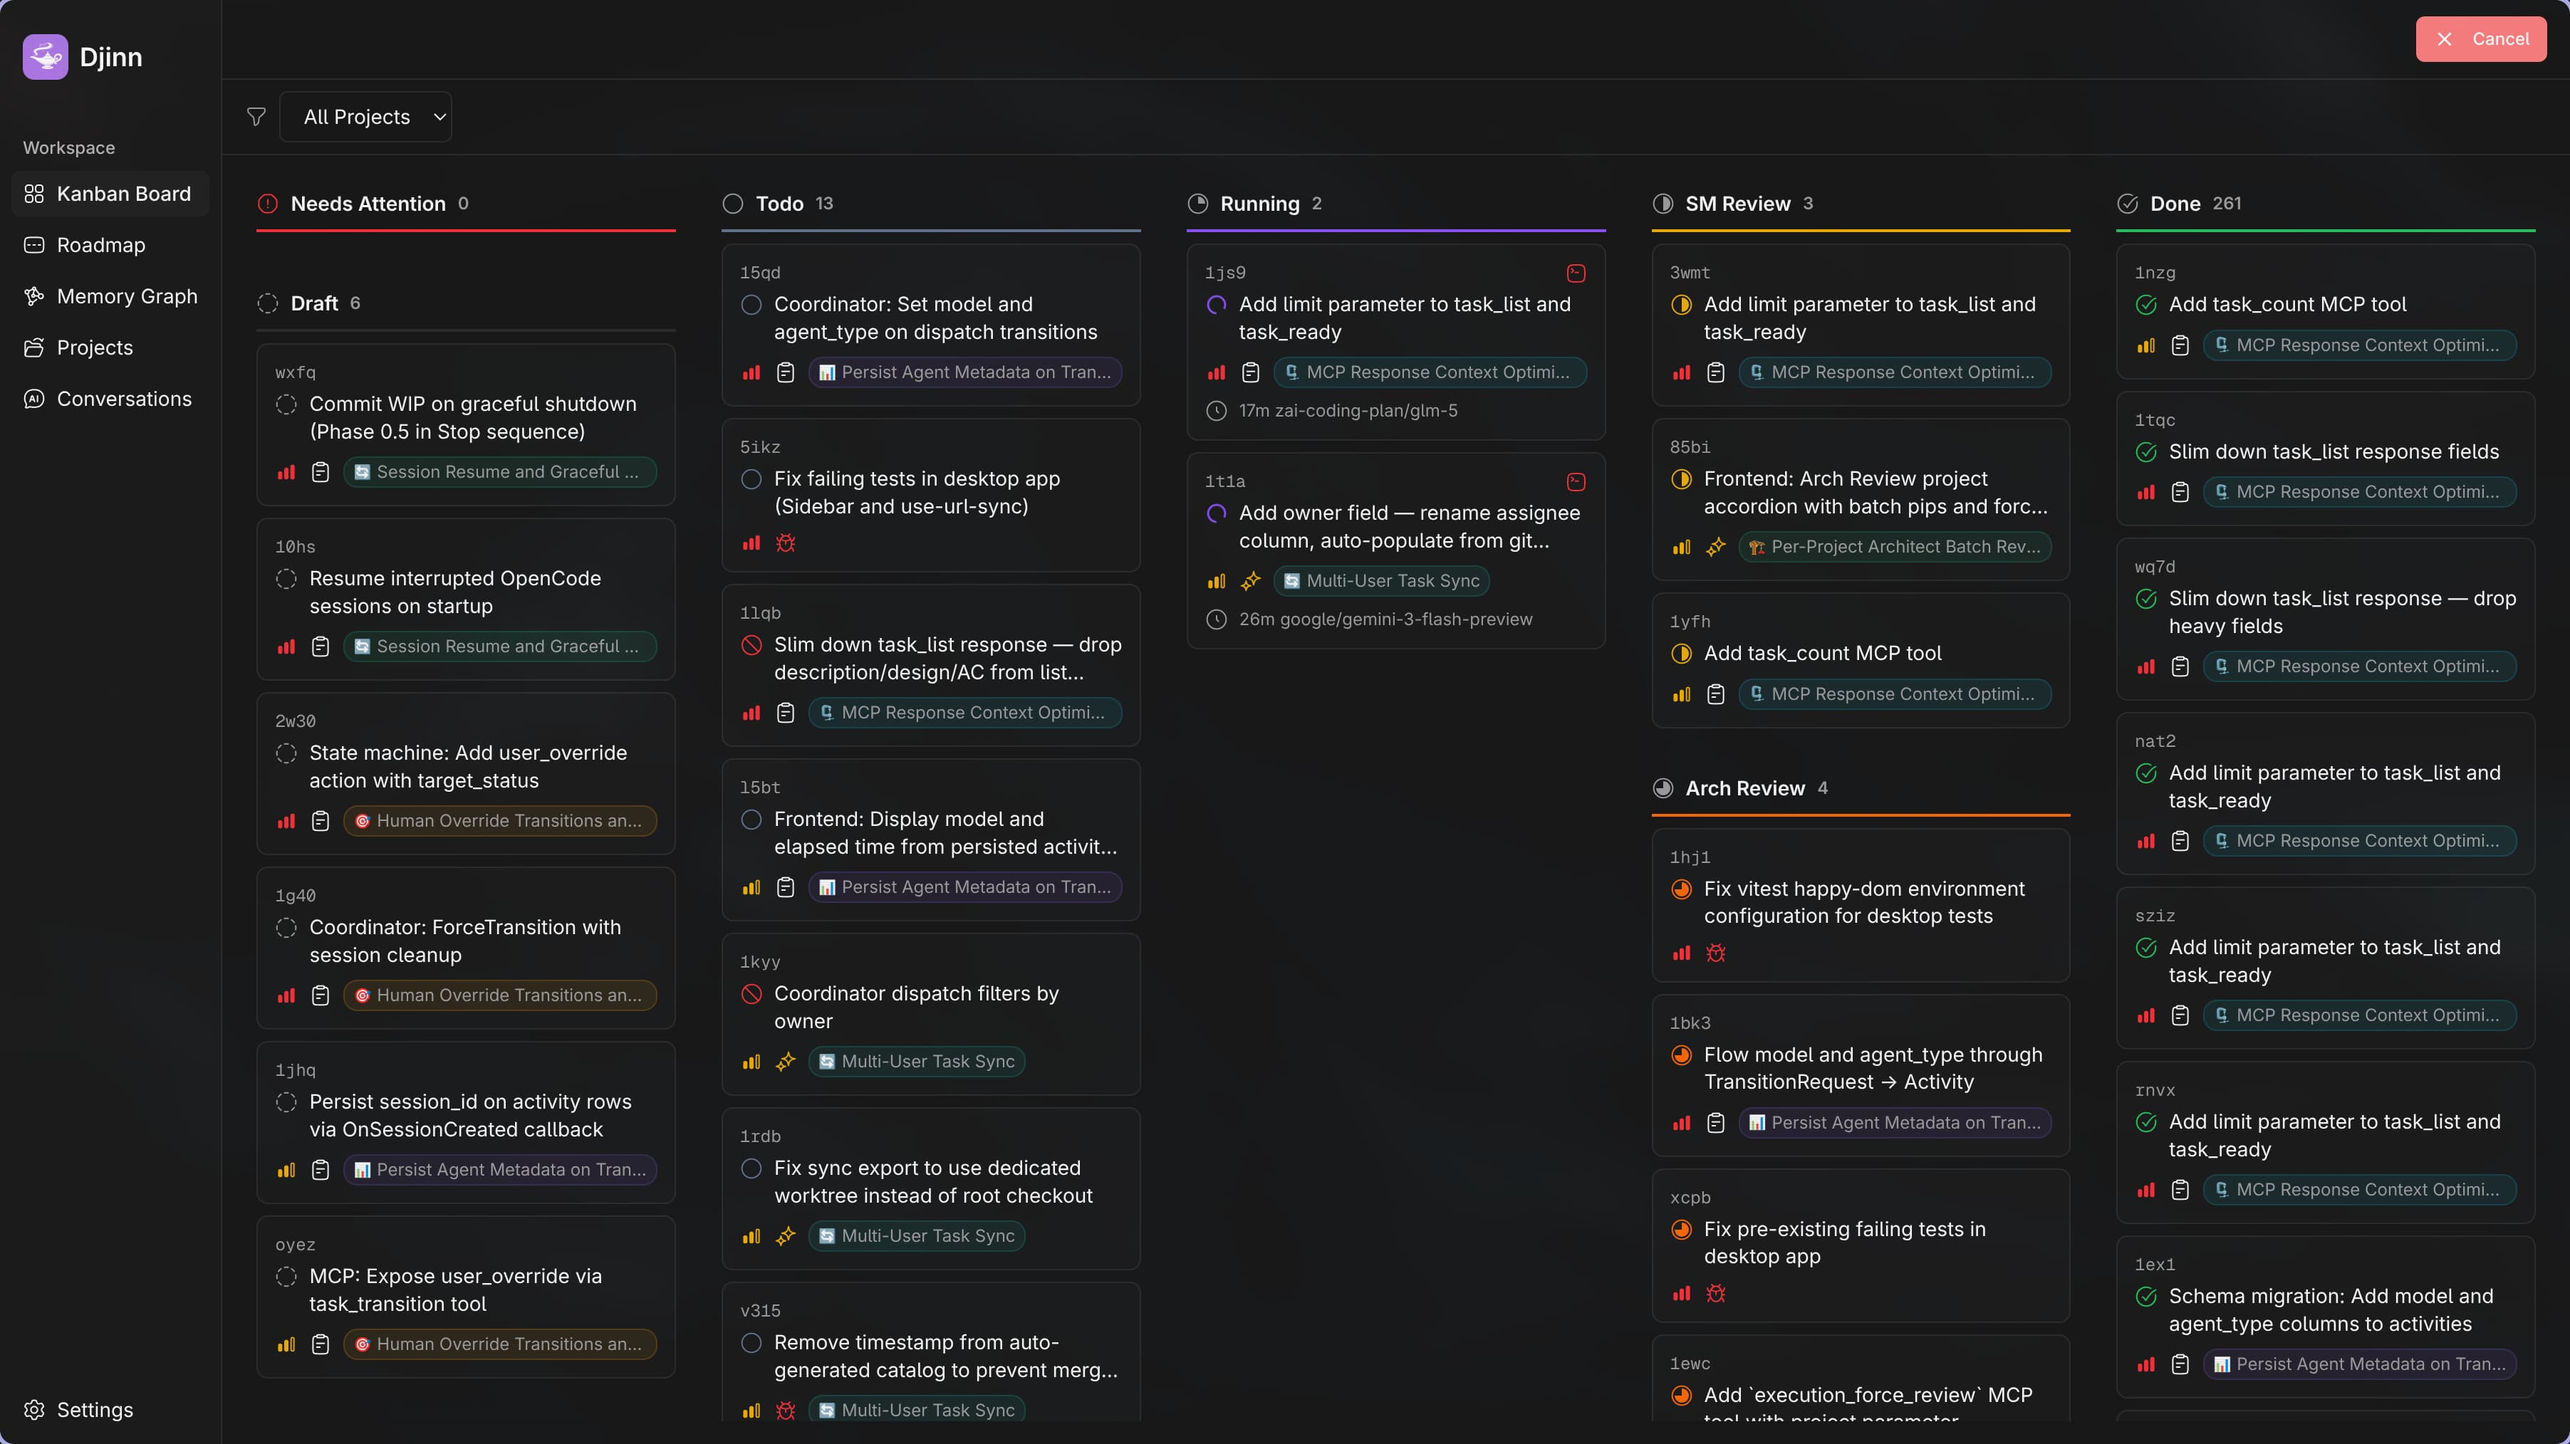
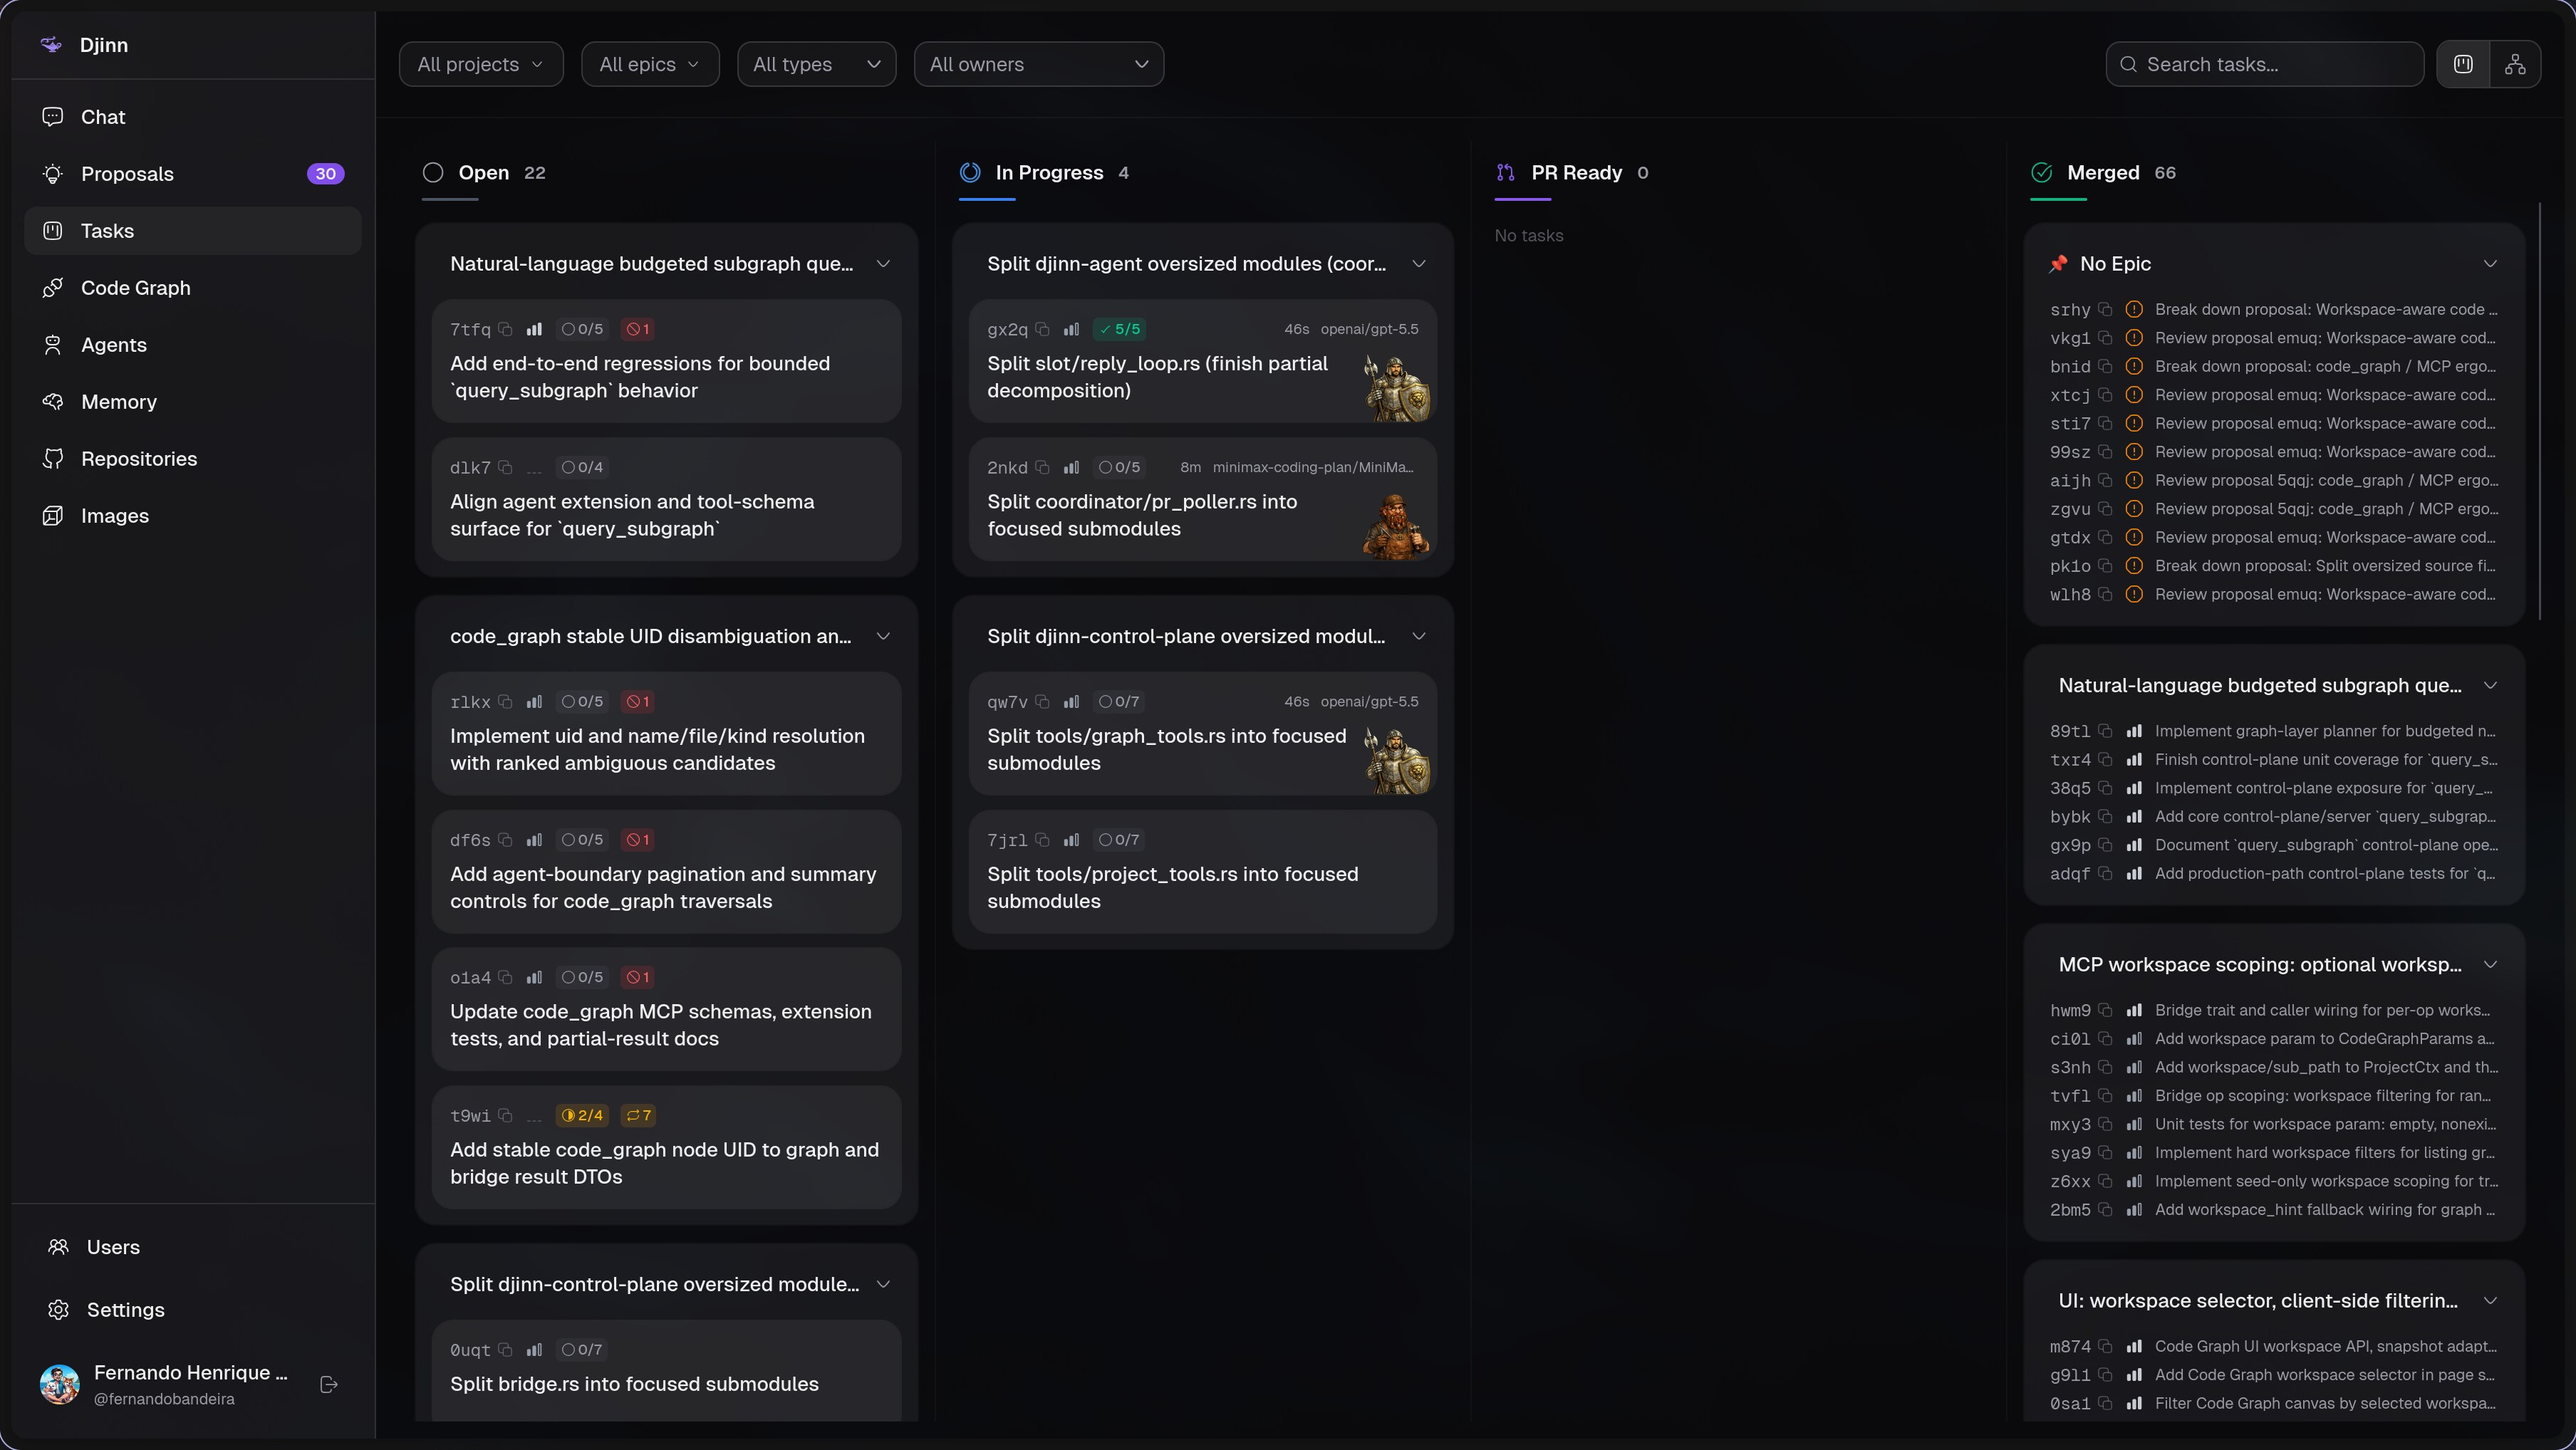
docs(website): refresh screenshots — proposals hero, code graph, roadmap, kanban
Replace the three aging screenshots with four fresh captures:
- proposals view is now the website hero
- code graph replaces the memory graph in the knowledge section
- new roadmap shot replaces epics.jpg
- new kanban shot keeps its slot as the OG/social image and README lead

diff --git a/website/app/page.tsx b/website/app/page.tsx
@@ -165,11 +165,11 @@ export default function Home() {
               <span className="dot bg-accent-coral/70" />
               <span className="dot bg-status-warn/70" />
               <span className="dot bg-status-pass/70" />
-              <span className="ml-3">djinn — board · 6 agents running</span>
+              <span className="ml-3">djinn — proposals · specs in review, building, and done</span>
             </div>
             <LightboxImage
-              src="/kanban.jpg"
-              alt="Djinn — parallel AI agents building approved work across multiple projects"
+              src="/proposals.jpg"
+              alt="Djinn — proposals moving from draft through review and sign-off to build"
               className="w-full"
             />
           </div>
@@ -233,8 +233,8 @@ export default function Home() {
             <div className="md:col-span-3 window">
               <div className="window-bar">fig. 01 — roadmap · epics generated from proposal #0001</div>
               <LightboxImage
-                src="/epics.jpg"
-                alt="Djinn Roadmap — epics and tasks generated from an approved proposal"
+                src="/roadmap.jpg"
+                alt="Djinn Roadmap — epics and tasks generated from an approved proposal, with dependencies and blockers"
                 className="w-full"
               />
             </div>
@@ -294,10 +294,10 @@ export default function Home() {
               </p>
             </div>
             <div className="md:col-span-3 order-1 md:order-2 window">
-              <div className="window-bar">fig. 02 — memory graph · decisions, patterns, pitfalls</div>
+              <div className="window-bar">fig. 02 — code graph · symbols, references, dependencies</div>
               <LightboxImage
-                src="/memory.jpg"
-                alt="Djinn Memory Graph — knowledge base visualization with connected decisions, patterns, and architecture notes"
+                src="/code-graph.jpg"
+                alt="Djinn Code Graph — per-project symbol graph powering impact analysis and code intelligence"
                 className="w-full"
               />
             </div>

diff --git a/README.md b/README.md
@@ -33,14 +33,20 @@ The `djinn-server` control plane is the single source of truth — the web UI, C
 </p>
 
 <p align="center">
-  <a href="https://github.com/djinnos/djinn/blob/main/.github/assets/epics.jpg?raw=true">
-    <img src="https://github.com/djinnos/djinn/blob/main/.github/assets/epics.jpg?raw=true" width="800" alt="Djinn Roadmap — Epic dependency graph with tasks and blockers" />
+  <a href="https://github.com/djinnos/djinn/blob/main/.github/assets/proposals.jpg?raw=true">
+    <img src="https://github.com/djinnos/djinn/blob/main/.github/assets/proposals.jpg?raw=true" width="800" alt="Djinn Proposals — living specs moving from draft through review and sign-off to build" />
   </a>
 </p>
 
 <p align="center">
-  <a href="https://github.com/djinnos/djinn/blob/main/.github/assets/memory.jpg?raw=true">
-    <img src="https://github.com/djinnos/djinn/blob/main/.github/assets/memory.jpg?raw=true" width="800" alt="Djinn Memory Graph — Knowledge base visualization with connected notes" />
+  <a href="https://github.com/djinnos/djinn/blob/main/.github/assets/roadmap.jpg?raw=true">
+    <img src="https://github.com/djinnos/djinn/blob/main/.github/assets/roadmap.jpg?raw=true" width="800" alt="Djinn Roadmap — Epic dependency graph with tasks and blockers" />
+  </a>
+</p>
+
+<p align="center">
+  <a href="https://github.com/djinnos/djinn/blob/main/.github/assets/code-graph.jpg?raw=true">
+    <img src="https://github.com/djinnos/djinn/blob/main/.github/assets/code-graph.jpg?raw=true" width="800" alt="Djinn Code Graph — per-project symbol graph powering impact analysis and code intelligence" />
   </a>
 </p>
 
